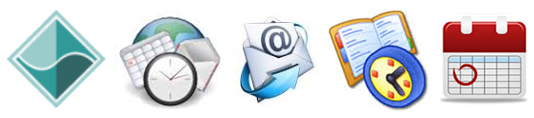
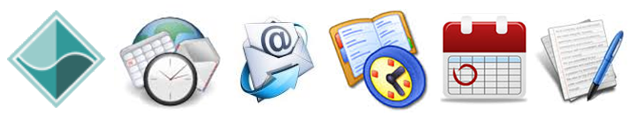
More quicklinks / reduce H2 size

diff --git a/www/css/loyola/chrome.less b/www/css/loyola/chrome.less
@@ -329,7 +329,7 @@ body.login{
     -webkit-box-shadow: 0px 3px 5px 0px #e4e4e4;
     box-shadow: 0px 3px 5px 0px #e4e4e4;
     font-family: Georgia, Times, "Times New Roman", serif;
-    font-size: 19px;
+    font-size: 17px;
     font-weight: normal;
 
     a{ color: #5bba52; }
@@ -440,6 +440,7 @@ ul.quicklinks{
   .e-mail{ background: url('/images/loyola/quicklinks.png') -221px 0px no-repeat; }
   .daily-org{ background: url('/images/loyola/quicklinks.png') -320px 0px no-repeat; }
   .calendar{ background: url('/images/loyola/quicklinks.png') -429px 0px no-repeat; }
+  .briefing{ background: url('/images/loyola/quicklinks.png') -528px 0px no-repeat; }
 }
 
 
